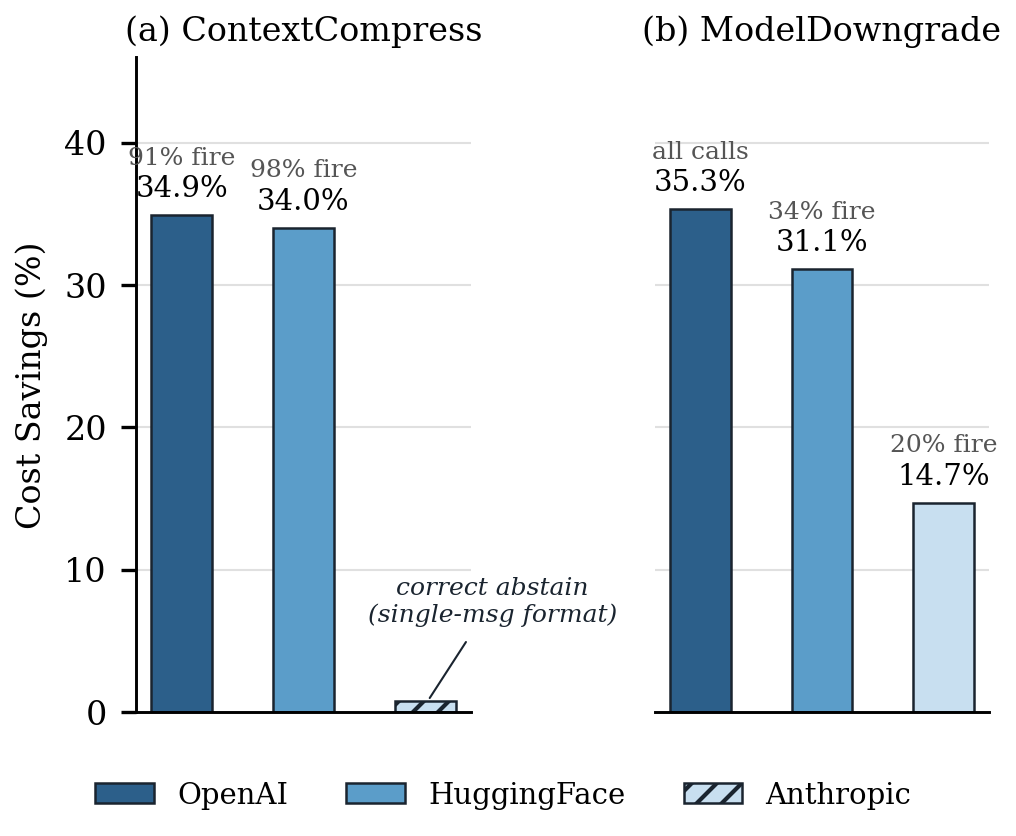
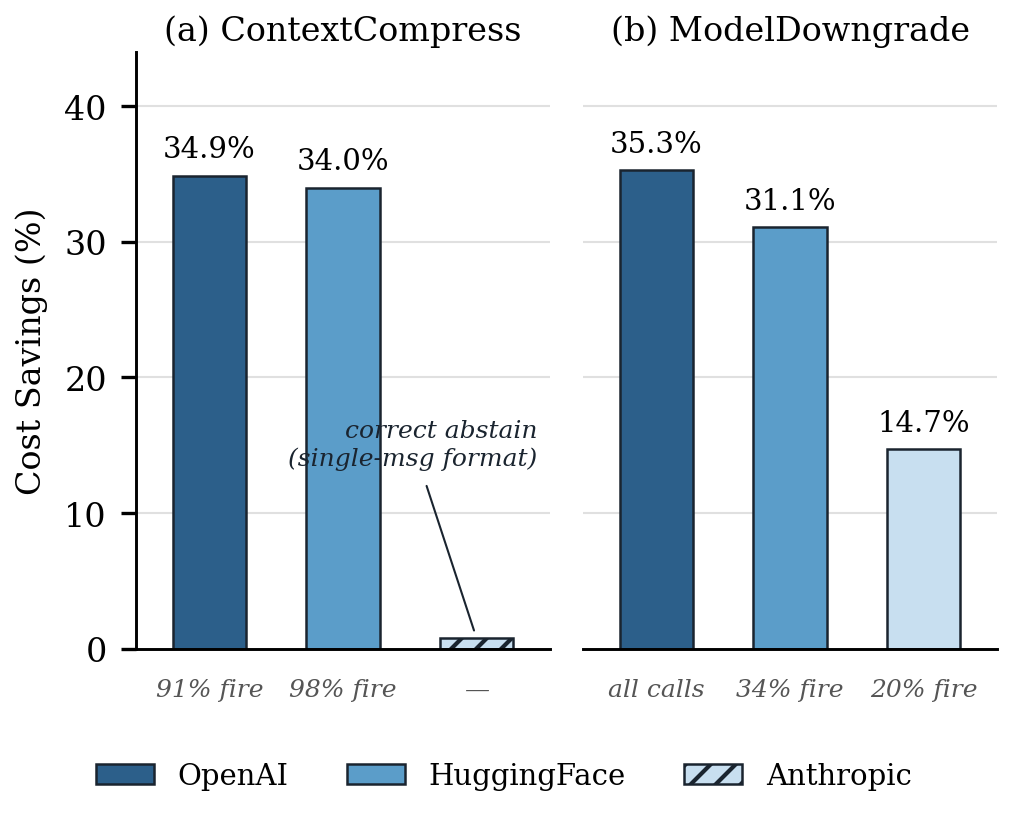
fix(paper): revise fig4 layout to research-paper quality
- Move fire-rate labels below x-axis (annotation_clip=False) to avoid
  axes clip-box truncation of in-bar or floating text
- Anchor correct-abstain callout to axes fraction so it never clips
- Tighten ylim to 44 and use explicit xlim to fill panel width
- subplots_adjust replaces tight_layout to silence sharey warning

diff --git a/bench/paper_figures/fig4_provider_generalization.py b/bench/paper_figures/fig4_provider_generalization.py
@@ -13,8 +13,9 @@ plt.rcParams.update({
     "font.family": "serif",
     "font.size": 8,
     "axes.labelsize": 8,
-    "axes.titlesize": 9,
-    "legend.fontsize": 7,
+    "axes.titlesize": 8,
+    "xtick.labelsize": 8,
+    "ytick.labelsize": 8,
     "mathtext.fontset": "cm",
     "pdf.fonttype": 42,
     "ps.fonttype": 42,
@@ -24,135 +25,126 @@ plt.rcParams.update({
 OUT_PDF = Path(__file__).resolve().parents[2] / "figures" / "fig4_provider_generalization.pdf"
 OUT_PNG = Path(__file__).resolve().parents[2] / "figures" / "fig4_provider_generalization.png"
 
-C_OPENAI = "#2c5f8a"
-C_HF = "#5b9dc9"
+C_OPENAI    = "#2c5f8a"
+C_HF        = "#5b9dc9"
 C_ANTHROPIC = "#c8dff0"
-EDGE = "#1a242f"
-GRID = "#9a9a9a"
+EDGE  = "#1a242f"
+GRID  = "#9a9a9a"
+ANNOT = "#555555"
 
-PROVIDERS = ["OpenAI", "HuggingFace", "Anthropic"]
+WIDTH = 0.55
+X = np.arange(3)
 
 
-def _annotate_bar(ax, bar, value_str, fire_str, is_hatched=False, arrow_label=None):
+def _bar(ax, i, h, color, hatch=None):
+    return ax.bar(
+        X[i], h, WIDTH,
+        color=color, edgecolor=EDGE, linewidth=0.6,
+        hatch=hatch, zorder=2,
+    )[0]
+
+
+def _val_label(ax, bar, val):
+    """Value % just above bar."""
     h = bar.get_height()
     cx = bar.get_x() + bar.get_width() / 2
-
-    if arrow_label:
-        # Annotate with an arrow pointing into the bar area for special cases.
-        ax.annotate(
-            arrow_label,
-            xy=(cx, 0.5),
-            xytext=(cx + 0.55, 6.0),
-            ha="center", va="bottom", fontsize=6, color=EDGE,
-            style="italic",
-            arrowprops=dict(arrowstyle="-", color=EDGE, lw=0.5),
-        )
-        return
-
-    # Value label on top of bar.
     ax.annotate(
-        value_str,
-        xy=(cx, h),
-        xytext=(0, 3), textcoords="offset points",
+        f"{val:.1f}%",
+        xy=(cx, h), xytext=(0, 3), textcoords="offset points",
         ha="center", va="bottom", fontsize=7,
     )
-    # Fire-rate annotation just below the value label.
+
+
+def _fire_label(ax, bar, text):
+    """Fire-rate note below the x-axis baseline (avoids clip-box issues).
+
+    Uses annotation_clip=False so the text renders outside the axes viewport.
+    """
+    cx = bar.get_x() + bar.get_width() / 2
     ax.annotate(
-        fire_str,
-        xy=(cx, h),
-        xytext=(0, 11), textcoords="offset points",
-        ha="center", va="bottom", fontsize=6, color="#555555",
+        text,
+        xy=(cx, 0),
+        xytext=(0, -7), textcoords="offset points",
+        ha="center", va="top", fontsize=6,
+        color=ANNOT, style="italic",
+        annotation_clip=False,
     )
+
+
+def _shared_style(ax):
+    for y in (10, 20, 30, 40):
+        ax.axhline(y, color=GRID, alpha=0.3, lw=0.5, zorder=0)
+    ax.set_xticks([])
+    ax.set_xlim(-0.55, 2.55)
+    ax.set_ylim(0, 44)
+    ax.set_yticks([0, 10, 20, 30, 40])
+    ax.spines["top"].set_visible(False)
+    ax.spines["right"].set_visible(False)
 
 
 def main() -> None:
     fig, (ax_cc, ax_md) = plt.subplots(
-        1, 2,
-        figsize=(3.5, 2.8),
-        sharey=True,
+        1, 2, figsize=(3.5, 2.8), sharey=True,
     )
-
-    # Gridlines behind bars.
-    for ax in (ax_cc, ax_md):
-        for y_grid in (10, 20, 30, 40):
-            ax.axhline(y_grid, color=GRID, alpha=0.3, lw=0.5, zorder=0)
-
-    width = 0.5
-    x_pos = np.arange(len(PROVIDERS))
-    colors = [C_OPENAI, C_HF, C_ANTHROPIC]
+    fig.subplots_adjust(left=0.15, right=0.97, top=0.91, bottom=0.20, wspace=0.08)
 
     # ── (a) ContextCompress ──────────────────────────────────────────────────
-    cc_values = [34.9, 34.0, 0.0]
-    cc_fire = ["91% fire", "98% fire", ""]
-    cc_hatches = [None, None, "////"]
+    b0 = _bar(ax_cc, 0, 34.9, C_OPENAI)
+    b1 = _bar(ax_cc, 1, 34.0, C_HF)
+    b2 = _bar(ax_cc, 2, 0.75, C_ANTHROPIC, hatch="////")
 
-    cc_bars = []
-    for i, (v, color, hatch) in enumerate(zip(cc_values, colors, cc_hatches)):
-        render_h = v if v > 0.0 else 0.8
-        bar = ax_cc.bar(
-            x_pos[i], render_h, width,
-            color=color, edgecolor=EDGE, linewidth=0.6,
-            hatch=hatch, zorder=2,
-            label=PROVIDERS[i],
-        )
-        cc_bars.append(bar[0])
+    _val_label(ax_cc, b0, 34.9)
+    _val_label(ax_cc, b1, 34.0)
 
-    for bar, v, fire in zip(cc_bars[:2], cc_values[:2], cc_fire[:2]):
-        _annotate_bar(ax_cc, bar, f"{v:.1f}%", fire)
+    _fire_label(ax_cc, b0, "91% fire")
+    _fire_label(ax_cc, b1, "98% fire")
+    # Anthropic: "correct abstain" callout replaces a fire-rate label.
+    _fire_label(ax_cc, b2, "—")
 
-    # Anthropic bar: arrow annotation for correct-abstain.
-    _annotate_bar(ax_cc, cc_bars[2], "", "", arrow_label="correct abstain\n(single-msg format)")
+    # "correct abstain" callout: text anchored to axes fraction, arrow to stub.
+    ax_cc.annotate(
+        "correct abstain\n(single-msg format)",
+        xy=(X[2], 0.75), xycoords="data",
+        xytext=(0.97, 0.30), textcoords="axes fraction",
+        ha="right", va="bottom", fontsize=6, color=EDGE, style="italic",
+        arrowprops=dict(arrowstyle="-", color=EDGE, lw=0.5),
+        annotation_clip=False,
+    )
 
-    ax_cc.set_title("(a) ContextCompress", fontsize=8, pad=4)
-    ax_cc.set_xticks([])
+    _shared_style(ax_cc)
+    ax_cc.set_title("(a) ContextCompress", fontsize=8, pad=3)
     ax_cc.set_ylabel("Cost Savings (%)", fontsize=8)
 
     # ── (b) ModelDowngrade ───────────────────────────────────────────────────
-    md_values = [35.3, 31.1, 14.7]
-    md_fire = ["all calls", "34% fire", "20% fire"]
+    b3 = _bar(ax_md, 0, 35.3, C_OPENAI)
+    b4 = _bar(ax_md, 1, 31.1, C_HF)
+    b5 = _bar(ax_md, 2, 14.7, C_ANTHROPIC)
 
-    md_bars = []
-    for i, (v, color) in enumerate(zip(md_values, colors)):
-        bar = ax_md.bar(
-            x_pos[i], v, width,
-            color=color, edgecolor=EDGE, linewidth=0.6,
-            zorder=2,
-        )
-        md_bars.append(bar[0])
+    _val_label(ax_md, b3, 35.3)
+    _val_label(ax_md, b4, 31.1)
+    _val_label(ax_md, b5, 14.7)
 
-    for bar, v, fire in zip(md_bars, md_values, md_fire):
-        _annotate_bar(ax_md, bar, f"{v:.1f}%", fire)
+    _fire_label(ax_md, b3, "all calls")
+    _fire_label(ax_md, b4, "34% fire")
+    _fire_label(ax_md, b5, "20% fire")
 
-    ax_md.set_title("(b) ModelDowngrade", fontsize=8, pad=4)
-    ax_md.set_xticks([])
-
-    # Shared y-axis.
-    for ax in (ax_cc, ax_md):
-        ax.set_ylim(0, 46)
-        ax.set_yticks([0, 10, 20, 30, 40])
-        ax.spines["top"].set_visible(False)
-        ax.spines["right"].set_visible(False)
-
+    _shared_style(ax_md)
+    ax_md.set_title("(b) ModelDowngrade", fontsize=8, pad=3)
     ax_md.spines["left"].set_visible(False)
     ax_md.tick_params(left=False)
 
-    # Shared legend at the bottom.
+    # ── shared legend ─────────────────────────────────────────────────────────
     handles = [
         plt.Rectangle((0, 0), 1, 1, facecolor=C_OPENAI, edgecolor=EDGE, linewidth=0.6),
         plt.Rectangle((0, 0), 1, 1, facecolor=C_HF, edgecolor=EDGE, linewidth=0.6),
-        plt.Rectangle((0, 0), 1, 1, facecolor=C_ANTHROPIC, edgecolor=EDGE, linewidth=0.6,
-                       hatch="////"),
+        plt.Rectangle((0, 0), 1, 1, facecolor=C_ANTHROPIC, edgecolor=EDGE,
+                       linewidth=0.6, hatch="////"),
     ]
     fig.legend(
-        handles, PROVIDERS,
-        loc="lower center",
-        ncol=3,
-        frameon=False,
-        fontsize=7,
-        bbox_to_anchor=(0.5, -0.02),
+        handles, ["OpenAI", "HuggingFace", "Anthropic"],
+        loc="lower center", ncol=3, frameon=False, fontsize=7,
+        bbox_to_anchor=(0.5, 0.0),
     )
-
-    fig.tight_layout(rect=[0, 0.06, 1, 1])
 
     OUT_PDF.parent.mkdir(parents=True, exist_ok=True)
     fig.savefig(OUT_PDF, format="pdf", dpi=300, bbox_inches="tight", pad_inches=0.05)